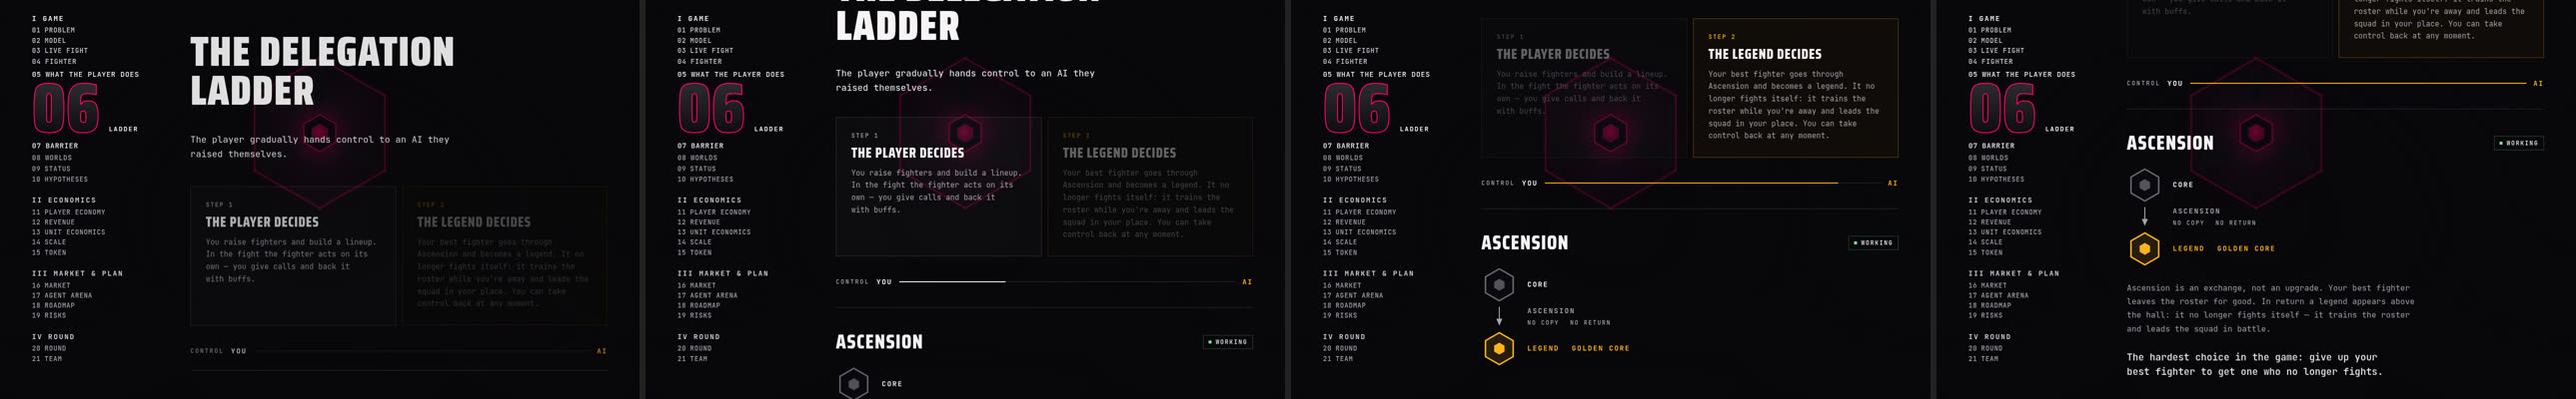
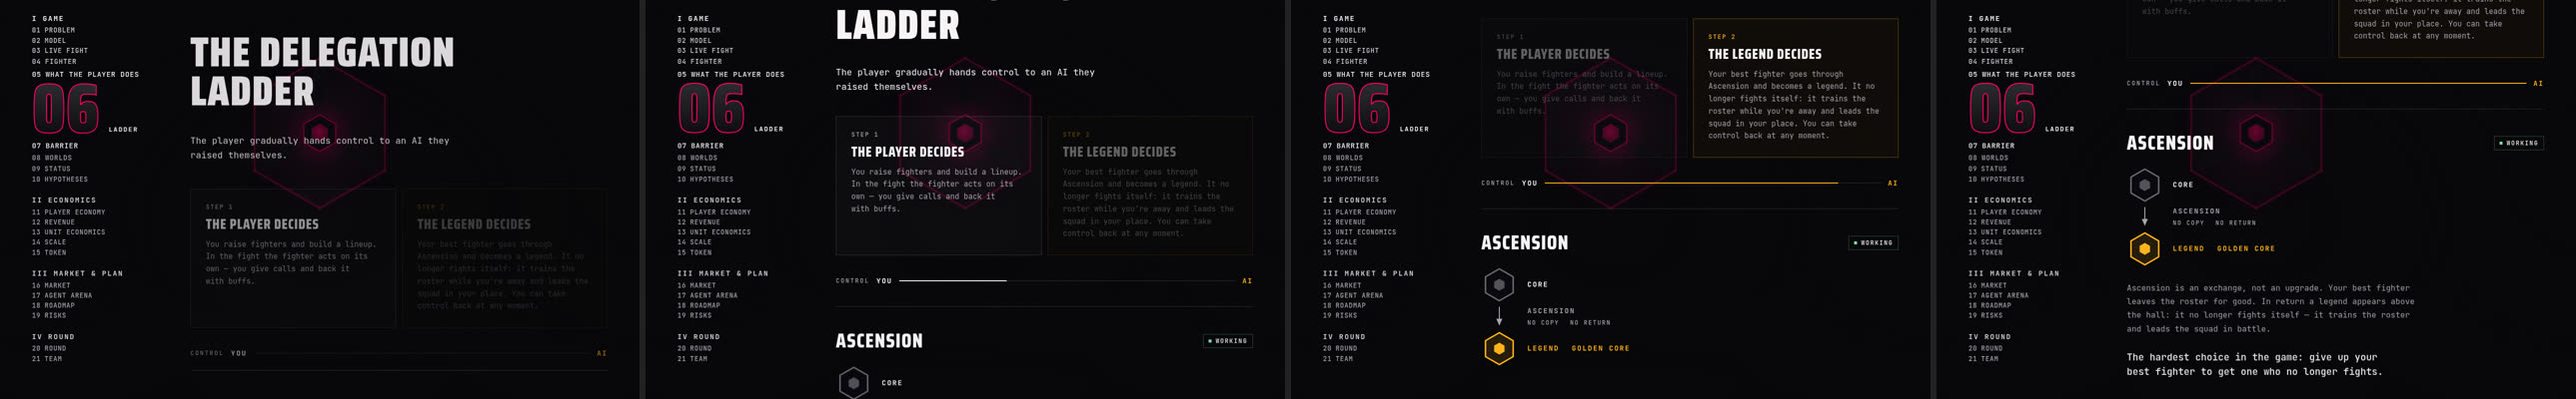
Дека: движение — справка, замер, сверка текстов

diff --git a/docs/deck-motion/README.md b/docs/deck-motion/README.md
@@ -1,0 +1,7 @@
+# Дека: движение (TZ_deck_motion_v1)
+
+- `1-seal-*`, `2-ladder-scroll-*`, `2-ladder-click-*`, `3-scale-*`, `4-pick-*` — раскадровки движений (JPEG, шесть кадров по времени), `{en|ru}-{1280|390}`. 390 = окно 390×844.
+- `5-clip-{hall|modes}-*` — окна с записями: без рамки, края растворяются.
+- `text-diff.txt` — какие строки изменились (только разрешённые: 2.3, 3.2, 5.2).
+- `frame-cost-390x844.txt` — замер до/после (прокрутка всей страницы, 3 прогона, медиана).
+- `gate-recording/plan-m-gate.txt` — сценарий записи «арена, выбор режима» для конвейера `tools/showcase` (ветка `claude/youthful-fermat-g2138u`), в репозиторий конвейер не кладётся.
